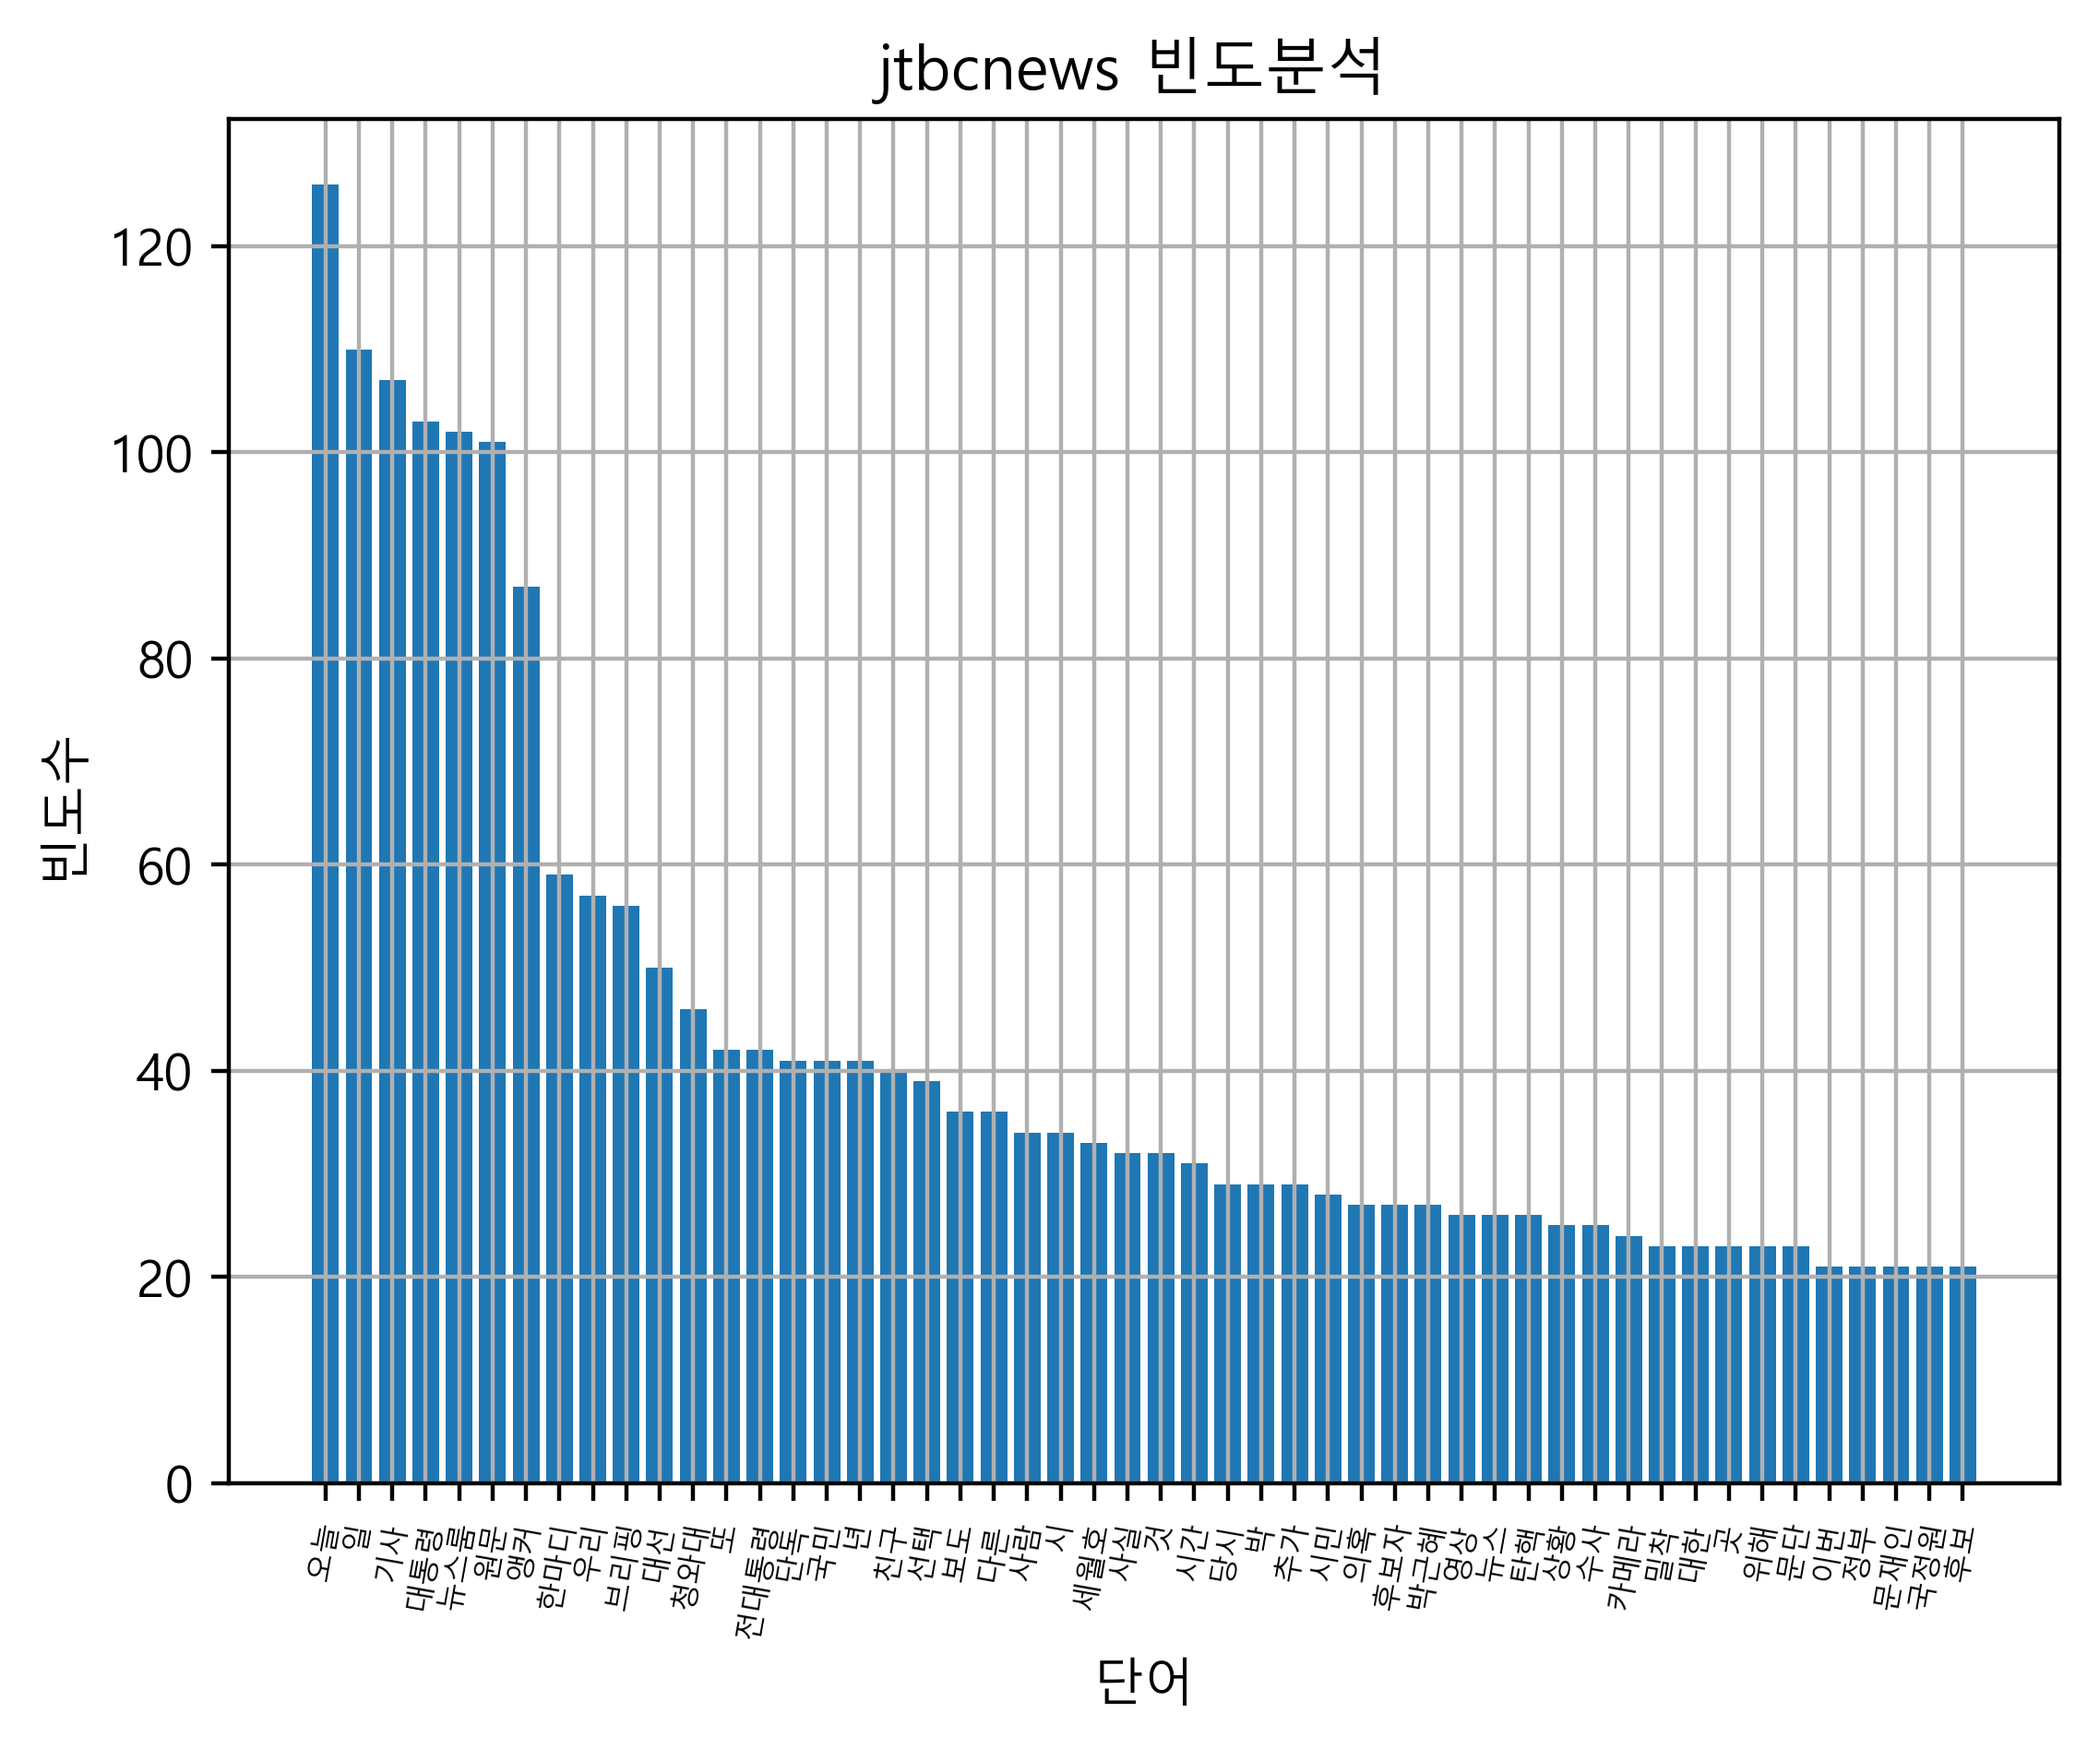
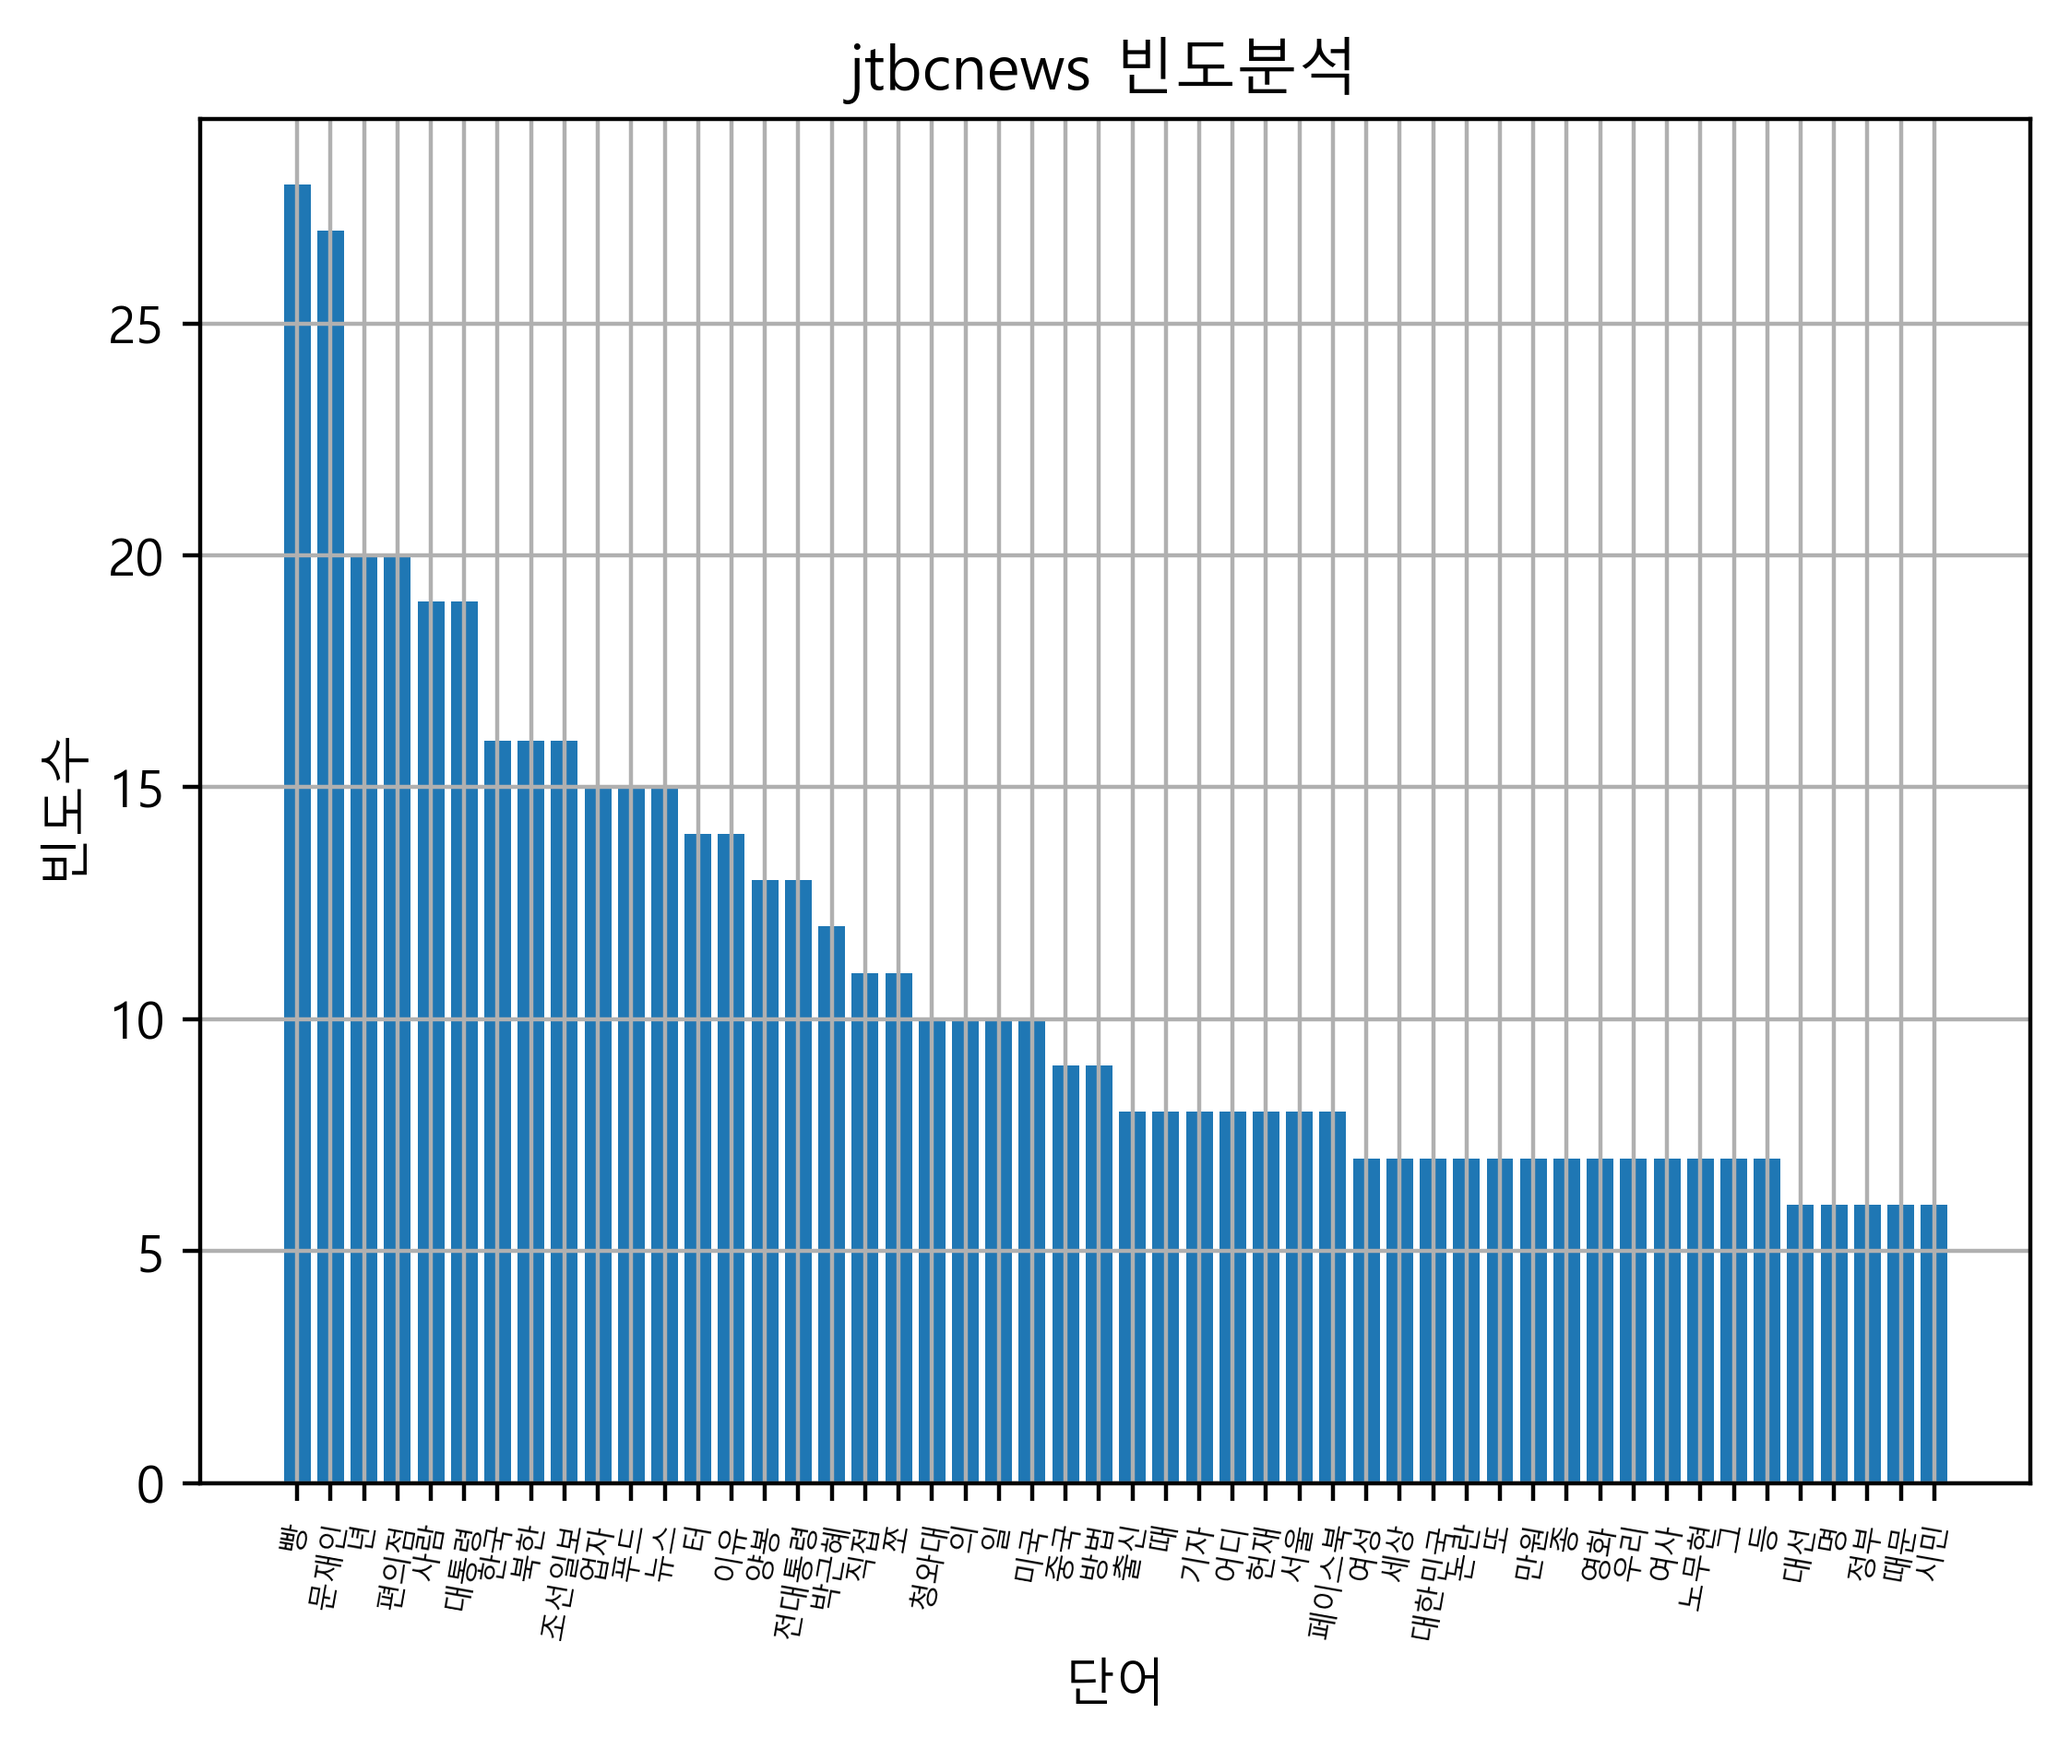
local commit

Changed region(s): [[0.0312, 0.0, 0.967, 0.9335], [0.5303, 0.9335, 0.5615, 0.9647], [0.0624, 0.8402, 0.0936, 0.8713]]

diff --git a/collect/api/api.py b/collect/api/api.py
@@ -4,7 +4,7 @@ from .web_request import json_request
 #FB API Wrapper Functions
 #fb_gen_url('https://graph.facebook.com/v3.0','jdbcnews','posts',since=20171231,until=20181231)
 
[2 lines of base64/hex data omitted]
 BASE_URL_FB_API="https://graph.facebook.com/v3.0"  #상수 대문자로 선언
 
 def fb_gen_url(base=BASE_URL_FB_API,
@@ -13,6 +13,8 @@ def fb_gen_url(base=BASE_URL_FB_API,
                ):
 
     url = '%s/%s/?%s' % (base, node, urlencode(params))
+
+    print('fb_gen_url url :', url)
     return url
 
 
@@ -20,22 +22,29 @@ def fb_gen_url(base=BASE_URL_FB_API,
 #https://graph.facebook.com/v3.0/240263402699918/posts/?since=...
 #jtbcnews에 대한 id값 리턴함
 
-def fb_name_to_id(pagename):
+def fb_name_to_id(pagename, access_token=''):
     url = fb_gen_url(node=pagename,
-                     access_token=ACCESS_TOKEN
+                     access_token=access_token
                      )
+    print('url', url)
     json_result = json_request(url=url)
+    print('json_result',json_result)
     return json_result.get('id') #{'name': 'JTBC 뉴스', 'id': '240263402699918'}
 
 #https://graph.facebook.com/v3.0/240263402699918/posts/?since=...
-def fb_fetch_posts(pagename, since, until):
+def fb_fetch_posts(pagename,
+                   since,
+                   until,
+                   access_token
+                   ):
     url = fb_gen_url(
-                      node=fb_name_to_id(pagename)+'/posts',
+                      node=fb_name_to_id(pagename, access_token=access_token)+'/posts',
+                      access_token=access_token,
                       fields='id,message,link,name,type,shares,reactions,created_time,comments.limit(0).summary(true).limit(0).summary(true)' , #포스트에서 받아야할 데이터필드
                       since=since,
                       until = until ,
-                      limit = 50,
-                      access_token=ACCESS_TOKEN
+                      limit = 50
+
     )
 
 

diff --git a/__main__.py b/__main__.py
@@ -1,35 +1,46 @@
 #print('run analysis_fb...')
 #크롤러 실행
 #from collect import crawler as cw
+from config import CONFIG
 import collect
 import analyze
 import visualize
 
 #실행파일과 라이브러리파일 구분
 if __name__ =='__main__':#실행파일이면,
-
+    '''
     items = [
         {'pagename': 'jtbcnews', 'since': '2017-01-01', 'until': '2017-12-31'},
         {'pagename': 'chosun', 'since': '2017-01-01', 'until': '2017-12-31'}
     ] #어떤놈수집할까 항목저장
-
+    '''
+    items=[]
     #데이터 수집(collection)
+
+
+    for pagename in CONFIG['pagename']:
+        resultfile = collect.crawling(pagename,**CONFIG['common'] )  # 데이터는 수집않고 파일명만 가져오게
+        items.append({'pagename':pagename})
+        for item in items:
+            item['since'] = CONFIG['common']['since']
+            item['until'] = CONFIG['common']['until']
+            item['resultfile'] = resultfile
+    print('resultfile items :', items)
+    '''
     for item in items:
         resultfile = collect.crawling(**item, fetch=False)#데이터는 수집않고 파일명만 가져오게
         item['resultfile'] = resultfile
+    '''
 
-
-    #데이터 분석(analyze)
+    #데이터 분석(analyze)items.append({ 'resultfile': resultfile })
     for item in items:
         data = analyze.json_to_str(item['resultfile'], 'message')# json string으로 바꾸기
         item['count_wordfreq'] = analyze.count_wordfreq(data)
 
-
+    print('items after anal : ',items)
     #데이터 시각화(visualize)
     for item in items:
         count = item['count_wordfreq'] #count객체를 빼내서  'count_wordfreq': Counter({'빵': 28, '문재인': 27, '년': 20, '편의점': 20, '사람': 1
-
-        print('type(count) : ' , type(count))
 
         count.most_common(50)           # list(tuple) 랭킹 50위까지 순서대로
         count_m50 = dict( count.most_common(50) )  # dic 형태로 변경 : {'오늘': 126, '일': 110, '기사': 107,

diff --git a/collect/crawler.py b/collect/crawler.py
@@ -1,11 +1,11 @@
-import os
+#import os
 import json
 from .api import api
 from datetime import datetime, timedelta
 
 
 
-RESULT_DIRECTORY = '__results__/crawling'
+#RESULT_DIRECTORY = '__results__/crawling'
 #수집된 데이터 가공 메소드 생성
 def preprocess_post(post):
     # 공유수 shares-count
@@ -33,12 +33,27 @@ def preprocess_post(post):
     # time-> string형으로 변환
     post['created_time'] = kst.strftime('%Y-%m-%d %H:%M:%S')
 
-def crawling(pagename, since, until, fetch=True):#안주면 무조건 수집
+def crawling(pagename,
+             since,
+             until,
+             fetch=True,
+             result_directory ='',
+             access_token =''
+             ):#안주면 무조건 수집
     results = []
-    filename = '%s/%s_%s_%s.json'%(RESULT_DIRECTORY,pagename,since,until)#나중에 config로 dir명 뺄것
+    filename = '%s/%s_%s_%s.json'%(result_directory,
+                                   pagename,
+                                   since,
+                                   until
+                                   )#나중에 config로 dir명 뺄것
 
     if fetch: #fetch가 true이면 수집
-        for posts in api.fb_fetch_posts(pagename, since, until):
+        for posts in api.fb_fetch_posts(
+                                        pagename,
+                                        since,
+                                        until,
+                                        access_token=access_token
+        ):
             for post in posts:
                 preprocess_post(post)
             results += posts
@@ -54,6 +69,3 @@ def crawling(pagename, since, until, fetch=True):#안주면 무조건 수집
     
     return filename
 
-#crawler.py가 임포트될때 로딩되어 실행됨
-if os.path.exists(RESULT_DIRECTORY) is False:
-    os.makedirs(RESULT_DIRECTORY)

diff --git a/config.py b/config.py
@@ -1,0 +1,16 @@
+import os
+
+CONFIG={
+    'pagename':['jtbcnews','chosun'],
+    'common':{
+        'since':'2017-01-01',
+        'until':'2017-12-31',
+        'fetch':True,
+        'result_directory' : '__results__/crawling',
[1 lines of base64/hex data omitted]
+    }
+}
+
+#crawler.py가 임포트될때 로딩되어 실행됨
+if os.path.exists(CONFIG['common']['result_directory']) is False:
+    os.makedirs(CONFIG['common']['result_directory'])
